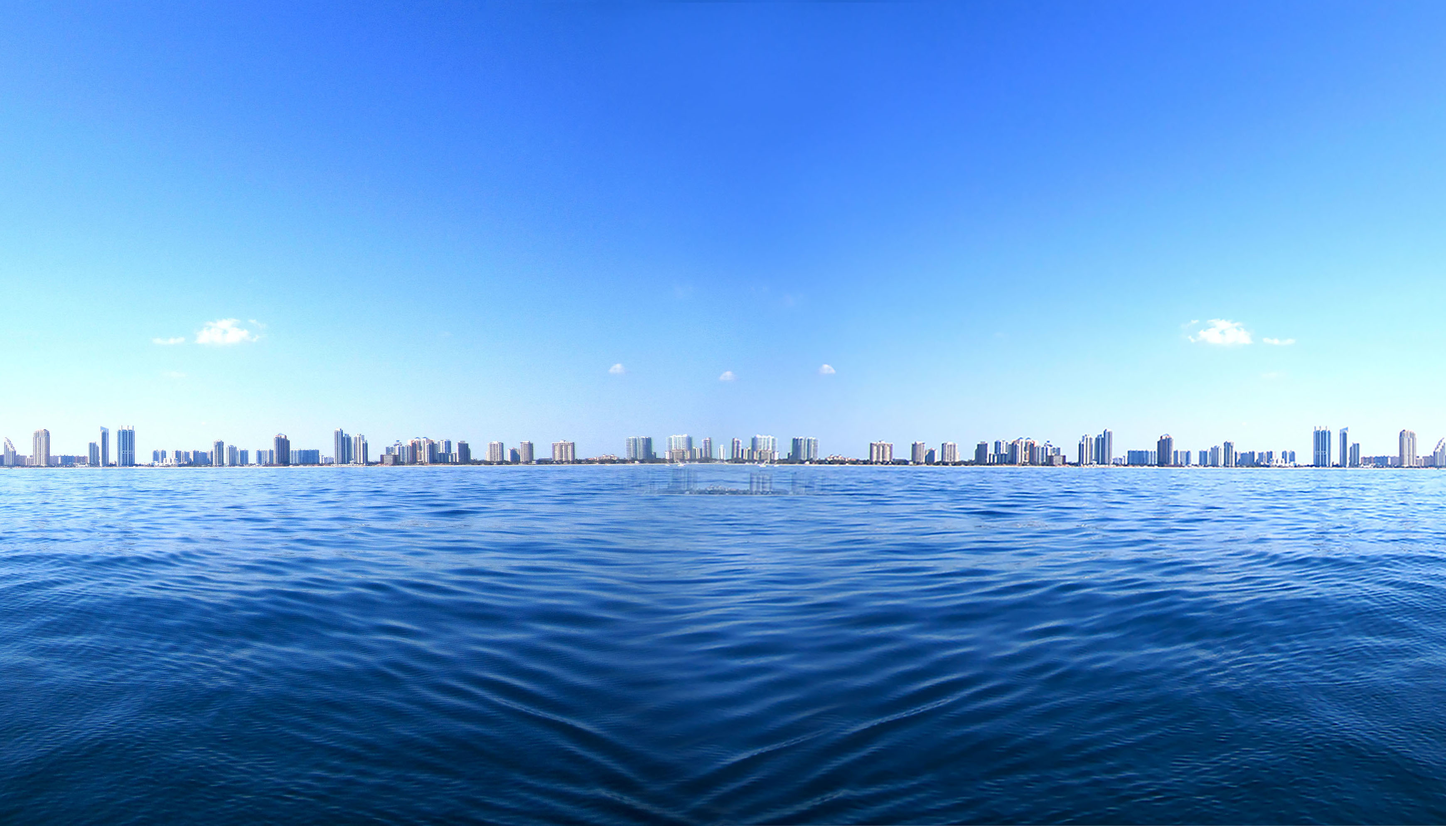
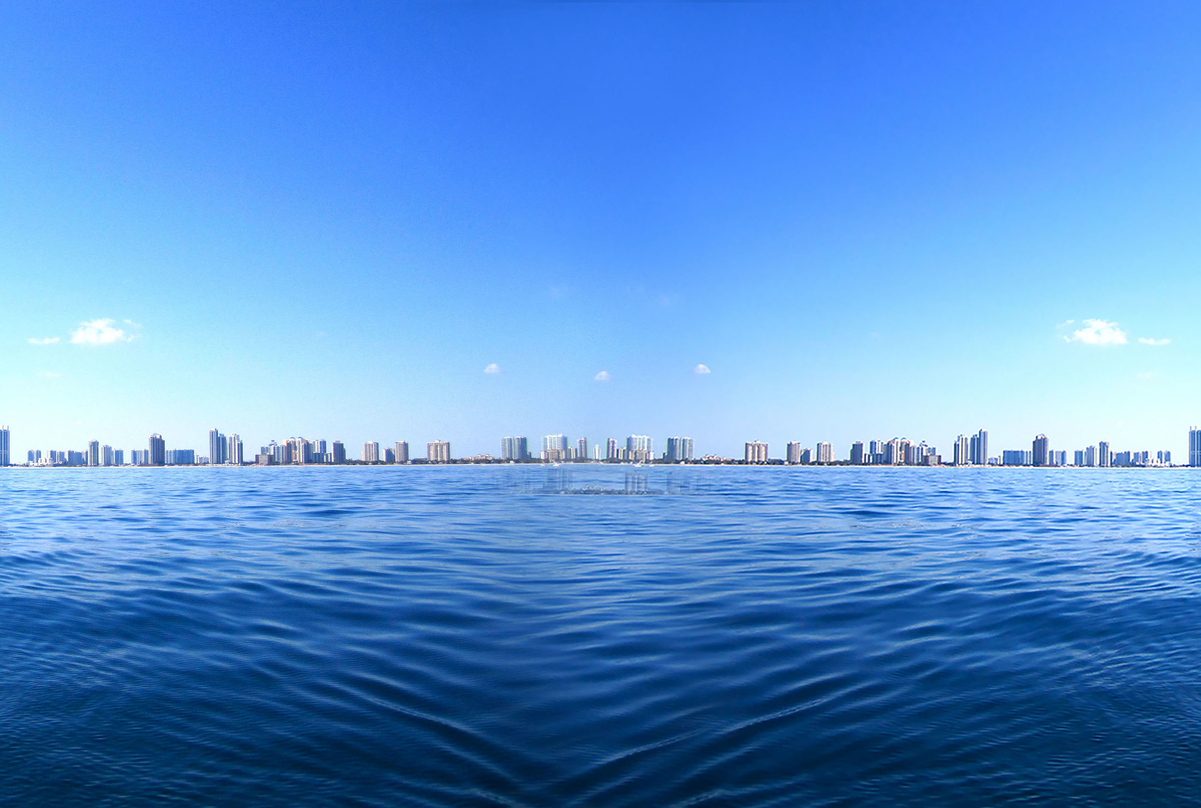
resized background image

diff --git a/public/css/style.css b/public/css/style.css
@@ -85,7 +85,7 @@
 		-o-transform: translate3d(0,0,0);
 		-ms-transform: translate3d(0,0,0);
 		transform: translate3d(0,0,0);
-		background-color: #348cb2;
+		background-color: #296ee3;
 		background-image: url("images/bg.jpg");
 		background-position: bottom left;
 		background-repeat: repeat-x;

diff --git a/public/index.html b/public/index.html
@@ -40,6 +40,7 @@
 								<li><a href="mailto:thejuliekramer@gmail.com" class="fa fa-envelope-o"><span>Email</span></a></li>
 							</ul>
 						</nav>
+
 					</header>
 				
 			</div>
